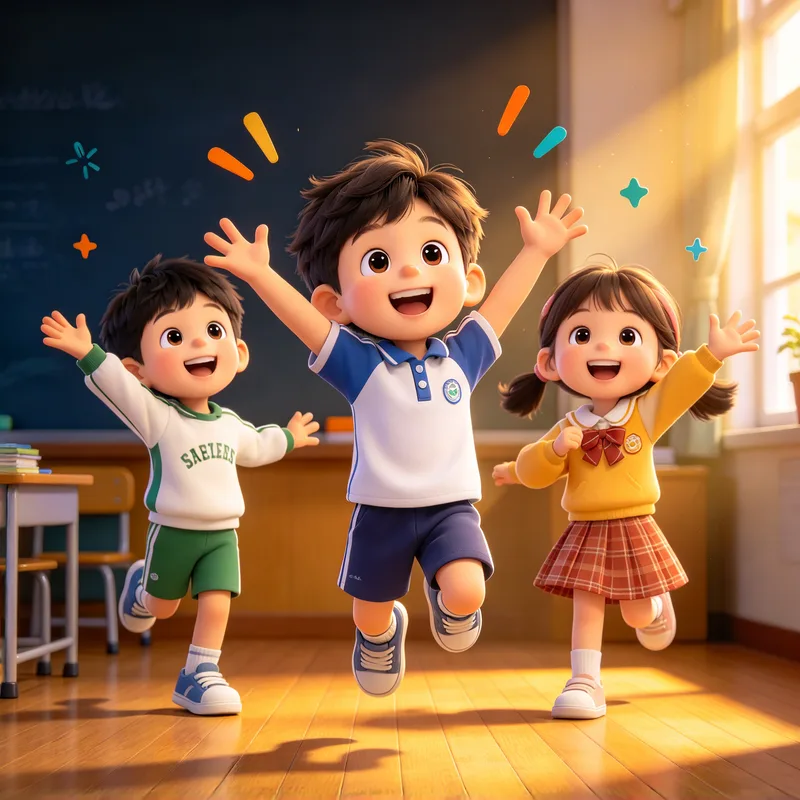
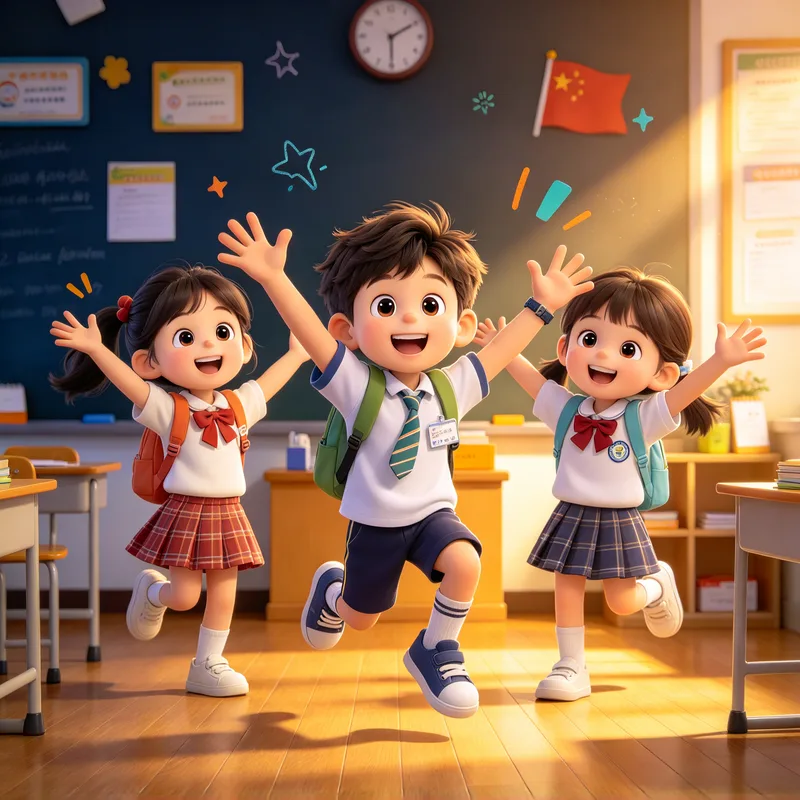
戲劇站：補回 L1-p14c 的 SVG、更新 L1-p02a 插畫

diff --git a/drama/lesson1-slides.html b/drama/lesson1-slides.html
@@ -606,7 +606,22 @@ img.art{object-fit:contain;border-radius:clamp(8px,1.4vmin,20px)}
       </div>
       <div class="card c-teal anim">
         <div class="ic">
-          <img class="art" src="assets/art/L1-p14c.webp" alt="台下三位觀眾，一個戴帽、一個較小、一個舉手">
+          <svg class="art" viewBox="0 0 200 120" role="img" aria-label="台下三位觀眾，一個戴帽、一個較小、一個舉手">
+            <path d="M10 96 H190" fill="none" stroke="#b8863b" stroke-width="3" stroke-linecap="round"/>
+            <g transform="translate(46,58) scale(.62)">
+              <use href="#chBust" style="--shirt:#43a89f;--hair:#2a1e14;--skin:#e8bb8f"/>
+              <rect x="-28" y="-26" width="56" height="7" rx="3.5" fill="#2f3d4d"/>
+              <path d="M-18 -26 a18 13 0 0 1 36 0 z" fill="#2f3d4d"/>
+            </g>
+            <g transform="translate(102,66) scale(.46)">
+              <use href="#chBust" style="--shirt:#b07cc4;--hair:#3a2a1a;--skin:#d9a878"/>
+            </g>
+            <g transform="translate(154,58) scale(.62)">
+              <use href="#chBust" style="--shirt:#d8674a;--hair:#4a3524;--skin:#f2c9a0"/>
+              <path d="M-24 18 L-46 -8" fill="none" stroke="#d8674a" stroke-width="10" stroke-linecap="round"/>
+              <circle cx="-48" cy="-12" r="7" fill="#f2c9a0"/>
+            </g>
+          </svg>
         </div>
         <h3>誰在看</h3>
         <p>觀眾</p>
